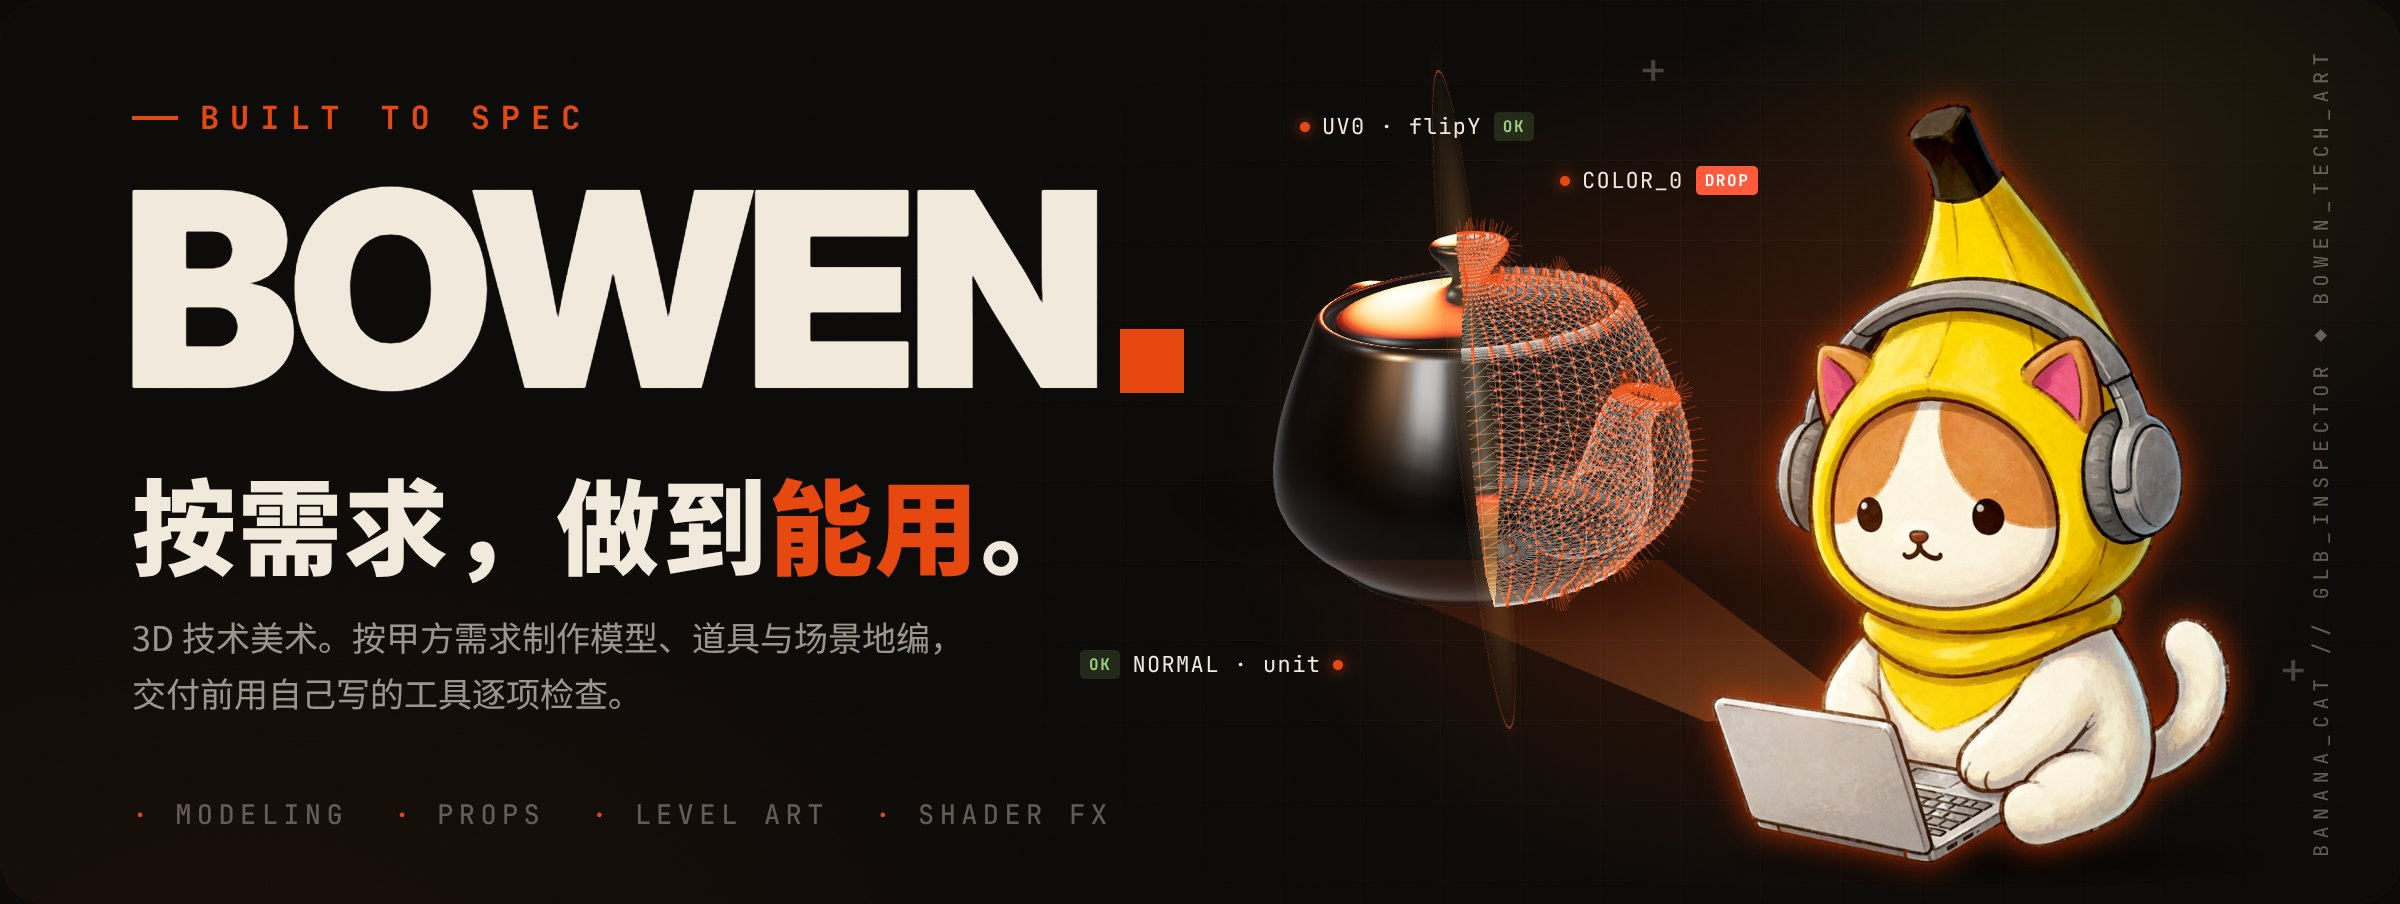
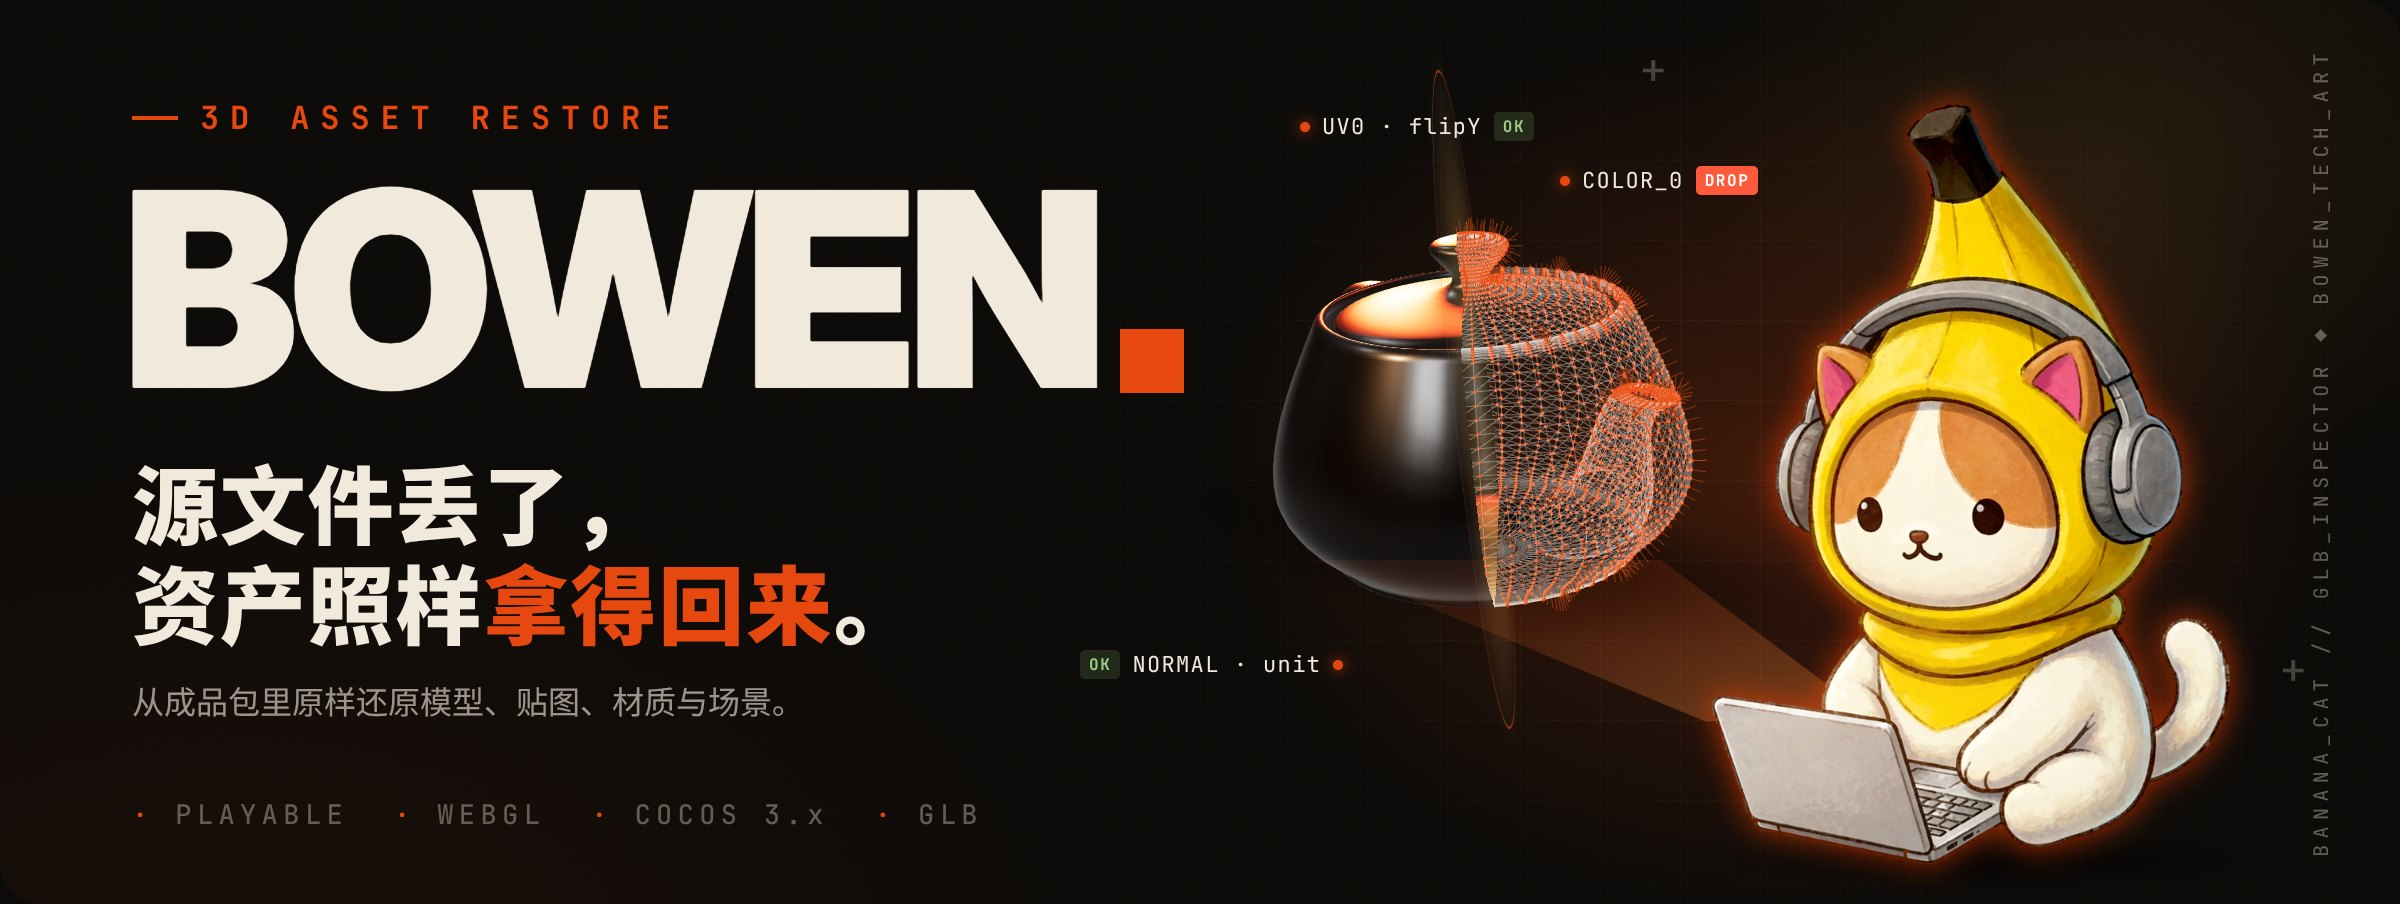
Cover: switch to asset-restore slogan
Kicker 3D ASSET RESTORE, two-line tagline 源文件丢了，资产照样拿得回来,
one-line subtitle, chips PLAYABLE / WEBGL / COCOS 3.x / GLB. Artwork
unchanged. Also updates the og:image share card.

Claude-Session: https://claude.ai/code/session_01NMVYxThqfCwszSwhdHQVfP

diff --git a/.github/cover/cover.html b/.github/cover/cover.html
@@ -35,9 +35,9 @@ body{font-family:"Noto Sans SC","Inter",sans-serif;color:var(--text);-webkit-fon
 .word{font-family:"Inter Display","Inter",sans-serif;font-weight:900;font-size:272px;line-height:.86;letter-spacing:-.035em;margin:34px 0 0 -10px;display:flex;align-items:flex-end}
 .word .o{position:relative;display:inline-block}
 .word .dot{display:inline-block;width:64px;height:64px;background:var(--ember);margin:0 0 14px 22px}
-.tagline{font-weight:900;font-size:104px;line-height:1.1;margin-top:58px;letter-spacing:.02em}
+.tagline{font-weight:900;font-size:86px;line-height:1.16;margin-top:44px;letter-spacing:.02em}
 .tagline em{font-style:normal;color:var(--ember)}
-.sub{font-size:34px;color:var(--muted);margin-top:30px;line-height:1.65;font-weight:400}
+.sub{font-size:32px;color:var(--muted);margin-top:24px;line-height:1.65;font-weight:400}
 .chips{position:absolute;left:132px;bottom:72px;font-family:"JetBrains Mono",monospace;font-weight:500;font-size:27px;letter-spacing:.2em;color:var(--faint);display:flex;gap:46px;z-index:2}
 .chips span::before{content:"· ";color:var(--ember)}
 
@@ -70,12 +70,12 @@ body{font-family:"Noto Sans SC","Inter",sans-serif;color:var(--text);-webkit-fon
   <canvas id="gl"></canvas>
 
   <div class="copy">
-    <div class="kicker">BUILT TO SPEC</div>
+    <div class="kicker">3D ASSET RESTORE</div>
     <div class="word">BOWEN<span class="dot"></span></div>
-    <div class="tagline">按需求，做到<em>能用</em>。</div>
-    <div class="sub">3D 技术美术。按甲方需求制作模型、道具与场景地编，<br>交付前用自己写的工具逐项检查。</div>
+    <div class="tagline">源文件丢了，<br>资产照样<em>拿得回来</em>。</div>
+    <div class="sub">从成品包里原样还原模型、贴图、材质与场景。</div>
   </div>
-  <div class="chips"><span>MODELING</span><span>PROPS</span><span>LEVEL ART</span><span>SHADER FX</span></div>
+  <div class="chips"><span>PLAYABLE</span><span>WEBGL</span><span>COCOS 3.x</span><span>GLB</span></div>
 
   <svg width="0" height="0" style="position:absolute"><filter id="rim" x="-10%" y="-10%" width="120%" height="120%">
     <feMorphology in="SourceAlpha" operator="dilate" radius="2" result="d"/>
